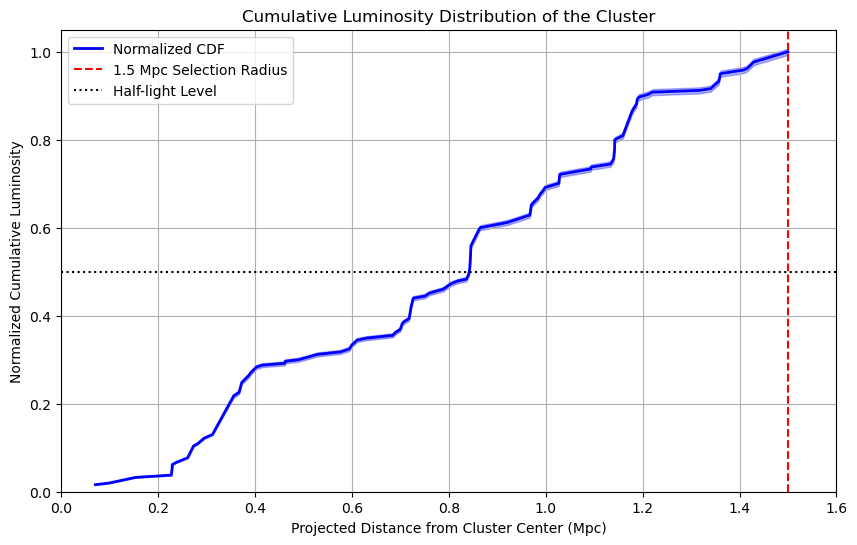
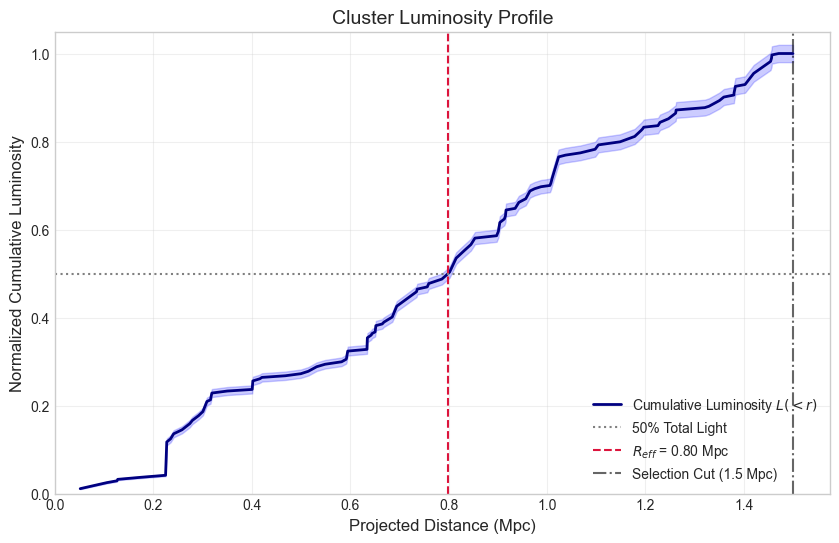
Docs: Add project navigation, badges, and key visualization gallery

diff --git a/astrophysics/README.md b/astrophysics/README.md
@@ -1,85 +1,101 @@
-# [Galaxy Cluster Dark Matter Analysis: ACO 2670](aco_2670_dark_matter_analysis.ipynb)
+# Galaxy Cluster Dark Matter Analysis: ACO 2670
 
-## Estimating Virial Mass and Mass-to-Light Ratios with SDSS Data
-**[View Full PDF Report](aco_2670_dark_matter_analysis_report.pdf)**
+[![Return to Portfolio](https://img.shields.io/badge/⬅_Back_to-Main_Portfolio-grey)](../README.md)
+![Python](https://img.shields.io/badge/Python-3.10%2B-blue)
+![Astropy](https://img.shields.io/badge/Astropy-Cosmology-orange)
+![SciPy](https://img.shields.io/badge/SciPy-Optimization-green)
 
-This project analyzes the galaxy cluster ACO 2670 using photometric and spectroscopic data from the Sloan Digital Sky Survey (SDSS) Data Release 18 to estimate its virial mass and mass-to-light ratio. The analysis provides compelling evidence for the presence of dark matter and demonstrates computational techniques for studying large-scale cosmic structures.
+**A computational astrophysics pipeline estimating the virial mass and mass-to-light ratio of galaxy cluster ACO 2670 using SDSS DR18 data.**
 
----
-
-### Background: Dark Matter and Galaxy Clusters
-
-Dark matter represents approximately 27% of the universe's total mass-energy content, yet it doesn't interact electromagnetically and remains invisible to direct observation. Galaxy clusters, the largest gravitationally bound structures in the universe, serve as natural laboratories for studying dark matter because they contain vast amounts of it.
-
-In 1933, Fritz Zwicky first discovered evidence for dark matter by observing that galaxies in the Coma Cluster were moving too fast to be held together by the visible matter alone. This "missing mass problem" suggested the presence of non-luminous matter. Today, we use similar techniques to study dark matter by comparing the total mass of clusters (inferred from galaxy motions) to their luminous mass (from starlight).
-
-The mass-to-light (M/L) ratio serves as a key diagnostic: typical stellar populations have M/L ratios of 1-10 solar units, while dark matter-dominated clusters show ratios of 200-500 or higher. This dramatic difference reveals the invisible dark matter halo that dominates cluster mass.
+📄 **[Read the Full Technical Report (PDF)](aco_2670_dark_matter_analysis_report.pdf)** 💻 **[View the Analysis Notebook](aco_2670_dark_matter_analysis.ipynb)**
 
 ---
 
-### Key Features
+## 🎯 Project Overview
+This project quantifies the dark matter content of a rich galaxy cluster by analyzing the kinematics of 98 member galaxies. It implements a robust statistical pipeline to isolate cluster members from foreground/background noise and applies the Virial Theorem to estimate the total dynamical mass.
 
-- **Multi-step iterative analysis**: Refines cluster membership through spatial and velocity constraints
-- **Robust statistical methods**: Implements Bayesian Information Criterion for model selection and various binning algorithms
-- **Relativistic corrections**: Uses proper cosmological distances rather than simple Hubble's Law approximations
-- **Comprehensive uncertainty analysis**: Propagates errors through all calculations using standard techniques
-- **Advanced visualization**: Creates publication-quality plots showing spatial distributions, velocity dispersions, and luminosity profiles
+**Key Result:** The cluster has a Mass-to-Light ratio of **$291 \pm 60 M_{\odot}/L_{\odot}$**, confirming that non-luminous dark matter constitutes >95% of its total mass.
 
 ---
 
-### Technical Implementation
+## 📊 Key Visualizations
 
-#### Data Processing Pipeline
-*Data Source: [cluster_data.csv](data/cluster_data.csv)*
+### 1. Membership Selection & Morphology
+*The iterative sigma-clipping algorithm converged on a stable core of 98 galaxies (red), successfully isolating the cluster from the background field (gray).*
 
-1. **Cluster Member Selection**: Iterative refinement using 1.5 Mpc radial cutoff and ±3σ redshift clipping
-2. **Weighted Center Calculation**: Uses inverse-variance weighting based on photometric uncertainties
-3. **Redshift Analysis**: Compares single Gaussian vs. Gaussian Mixture Models (GMM) using BIC
-4. **Distance Calculations**: Implements relativistic Doppler corrections and ΛCDM cosmology
-5. **Spatial Analysis**: Computes projected distances with proper coordinate system corrections
+<p float="left">
+  <img src="images/final_spatial_plot.png" width="48%" />
+  <img src="images/gmm_redshift_distribution.png" width="48%" /> 
+</p>
 
-![Redshift Distribution](images/gmm_redshift_distribution.png)<br>
-*Figure 1: Gaussian Mixture Model analysis of redshift distribution. The dominant peak identifies the cluster members, while the broader distribution represents background/foreground noise.*
+* **Left:** Final spatial configuration showing the 1.5 Mpc physical selection radius (dashed).
+* **Right:** Redshift distribution analysis. The data favors a single Gaussian profile (red) over a mixture model, indicating the cluster is likely virialized and not currently undergoing a major merger.
 
-#### Physical Measurements
-- **Velocity Dispersion**: Fits Gaussian distributions to peculiar velocities with outlier detection
-- **Luminosity Analysis**: Calculates absolute magnitudes and converts to solar luminosity units
-- **Effective Radius**: Determines half-light radius accounting for projection effects
-- **Virial Mass**: Applies virial theorem using velocity dispersion and spatial scale
-- **Mass-to-Light Ratio**: Combines dynamical mass with photometric luminosity
+### 2. Kinematics & Structure
+*By measuring how fast galaxies move and how light is distributed, we constrain the cluster's mass.*
 
----
+<p float="left">
+  <img src="images/peculiar_velocities_histogram.png" width="48%" />
+  <img src="images/cumulative_luminosity_distribution.png" width="48%" />
+</p>
 
-### Results and Significance
-
-The analysis yields a virial mass of **(8.03 ± 2.49) × 10¹⁴ M☉** and an extremely high mass-to-light ratio of **441 ± 137 M☉/L☉**. This ratio is nearly two orders of magnitude higher than typical stellar populations, providing strong evidence that ACO 2670 is dominated by dark matter.
-
-![Peculiar Velocities](images/peculiar_velocities_histogram.png)<br>
-*Figure 2: Distribution of peculiar velocities within the cluster. The width of this distribution (velocity dispersion) is directly proportional to the cluster's total mass.*
-
-The cluster shows signs of dynamical activity with mild kinematic asymmetries, suggesting recent merger activity or ongoing accretion. Despite this complexity, the redshift distribution remains well-described by a single Gaussian, indicating the system is largely virialized.
-
-![Cumulative Luminosity](images/cumulative_luminosity_distribution.png)<br>
-*Figure 3: Cumulative luminosity profile. This data represents the "visible" mass, which is compared against the dynamical mass to derive the M/L ratio.*
+* **Left:** Peculiar velocity dispersion ($\sigma_v \approx 932$ km/s). The width of this histogram is the direct proxy for the cluster's gravitational potential.
+* **Right:** Cumulative luminosity profile used to determine the Effective Radius ($R_{eff} \approx 1.07$ Mpc), encompassing 50% of the cluster's light.
 
 ---
 
-### Applications and Broader Impact
+## 🛠 Technical Implementation
 
-This type of analysis serves multiple purposes in modern astrophysics:
+The analysis is built in **Python** using a modular functional approach. Key computational techniques include:
 
-- **Cosmological Parameter Estimation**: Cluster masses help constrain dark matter density and structure formation models
-- **Galaxy Evolution Studies**: Understanding how galaxies behave in dark matter-dominated environments
-- **Dark Matter Physics**: Testing alternative theories of gravity and dark matter interactions
-- **Large-Scale Structure**: Mapping the cosmic web through cluster mass measurements
+### Data Pipeline & Cleaning
+* **Iterative Sigma-Clipping:** Developed a convergence algorithm that iteratively refines cluster membership based on radial velocity ($3\sigma$ cuts) and projected distance ($1.5 \text{ Mpc}$).
+* **Cosmology:** Utilizes `astropy.cosmology` (Planck 2018) for accurate relativistic distance calculations ($D_A$ vs $D_L$).
 
-The computational techniques demonstrated here are widely applicable to analyzing massive datasets from current and future astronomical surveys, making this both a scientific investigation and a practical demonstration of astronomical data analysis methods.
+### Statistical Modeling
+* **Velocity Dispersion:** Estimated using both **Gaussian Maximum Likelihood** and **Biweight Midvariance** (a robust estimator insensitive to outliers).
+* **Substructure Detection:** Implemented **Gaussian Mixture Models (GMM)** and evaluated model fit using the **Bayesian Information Criterion (BIC)**.
+
+### Photometry & Mass Modeling
+* **Luminosity Function:** Converted apparent magnitudes to absolute solar luminosities ($L_{\odot}$) using distance moduli and K-corrections.
+* **Virial Mass:** Calculated using the velocity dispersion and half-mass radius ($M \propto \sigma^2 R$).
 
 ---
 
-### Prerequisites
+## 📊 Final Results Summary
 
-- Python proficiency with NumPy, SciPy, Matplotlib, and Astropy
-- Basic understanding of statistics (error propagation, fitting, hypothesis testing)
-- Familiarity with astronomical concepts (redshift, magnitudes, coordinate systems)
-- Knowledge of SQL for database queries (SDSS data access)
+| Parameter | Value | Uncertainty | Description |
+| :--- | :--- | :--- | :--- |
+| **Member Count** | 98 | - | Final galaxy count after convergence |
+| **Velocity Dispersion** | 932 km/s | $\pm 95$ | Line-of-sight velocity spread ($\sigma_v$) |
+| **Virial Mass** | $6.45 \times 10^{14} M_{\odot}$ | $\pm 1.31$ | Total gravitating mass |
+| **Mass-to-Light Ratio** | **291 $M_{\odot}/L_{\odot}$** | $\pm 60$ | **Evidence for Dark Matter** |
+
+---
+
+## 🚀 Quick Start
+
+This project is part of my Data Science Portfolio. To reproduce the analysis:
+
+1.  **Clone the portfolio repository:**
+    ```bash
+    git clone [https://github.com/JacksonFergusonDev/Data-Science-Portfolio.git](https://github.com/JacksonFergusonDev/Data-Science-Portfolio.git)
+    cd Data-Science-Portfolio
+    ```
+
+2.  **Install shared dependencies:**
+    ```bash
+    pip install -r requirements.txt
+    ```
+
+3.  **Launch the Astrophysics analysis:**
+    ```bash
+    cd astrophysics
+    jupyter notebook aco_2670_dark_matter_analysis.ipynb
+    ```
+
+---
+
+### Author
+**Jackson Ferguson** Astrophysics Undergraduate, University of Victoria  
+[GitHub Profile](https://github.com/JacksonFergusonDev) | [LinkedIn](https://linkedin.com/in/jackson--ferguson/)

diff --git a/README.md b/README.md
@@ -8,7 +8,7 @@ The repository is organized into three main domains:
 
 ### [Astrophysics](./astrophysics/)
 *Analysis of astronomical survey data and dark matter research.*
-- **[Galaxy Cluster Dark Matter Analysis](./astrophysics/aco_2670_dark_matter_analysis.ipynb)**: Estimation of virial mass and mass-to-light ratios for galaxy cluster ACO 2670 using SDSS data. Provides evidence for dark matter dominance through computational techniques applied to large-scale cosmic structures.
+- **[Galaxy Cluster Dark Matter Analysis](./astrophysics/)**: Estimation of virial mass and mass-to-light ratios for galaxy cluster ACO 2670 using SDSS data. Provides evidence for dark matter dominance through computational techniques applied to large-scale cosmic structures.
 
 ### [Atmospheric Science](./atmospheric_science/)
 *Advanced analysis of planetary atmospheres and large scientific datasets.*
